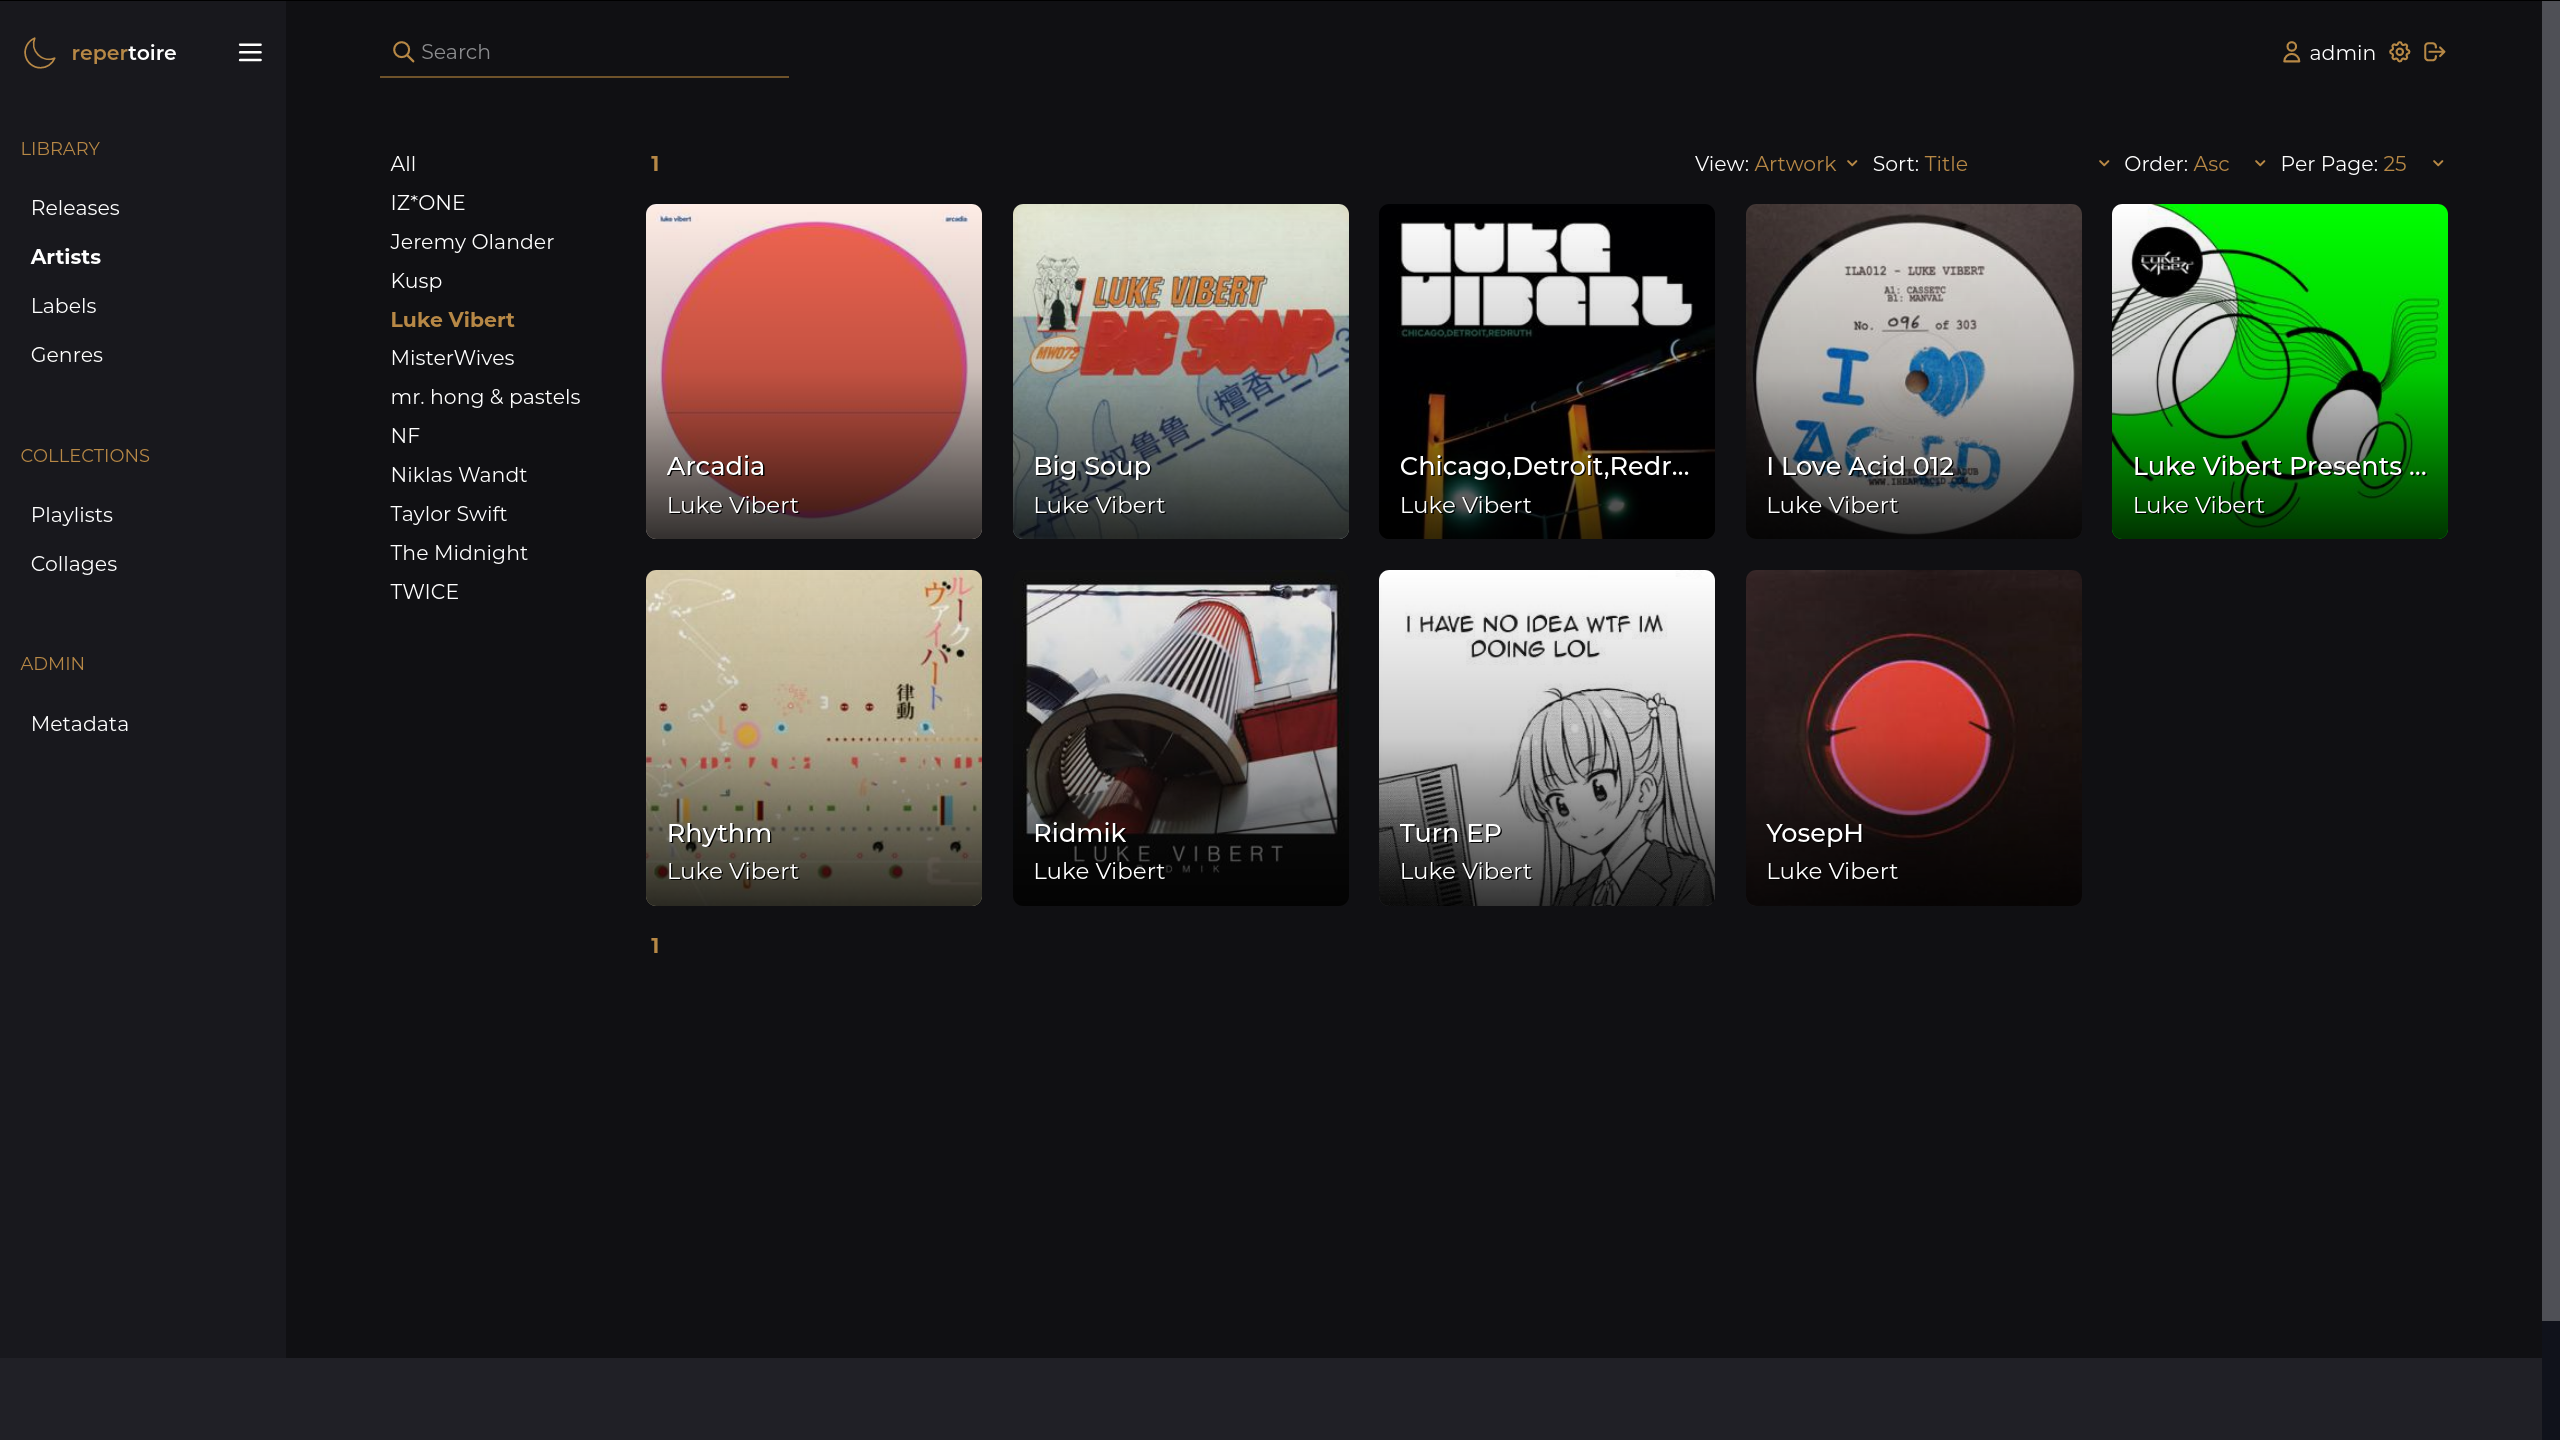
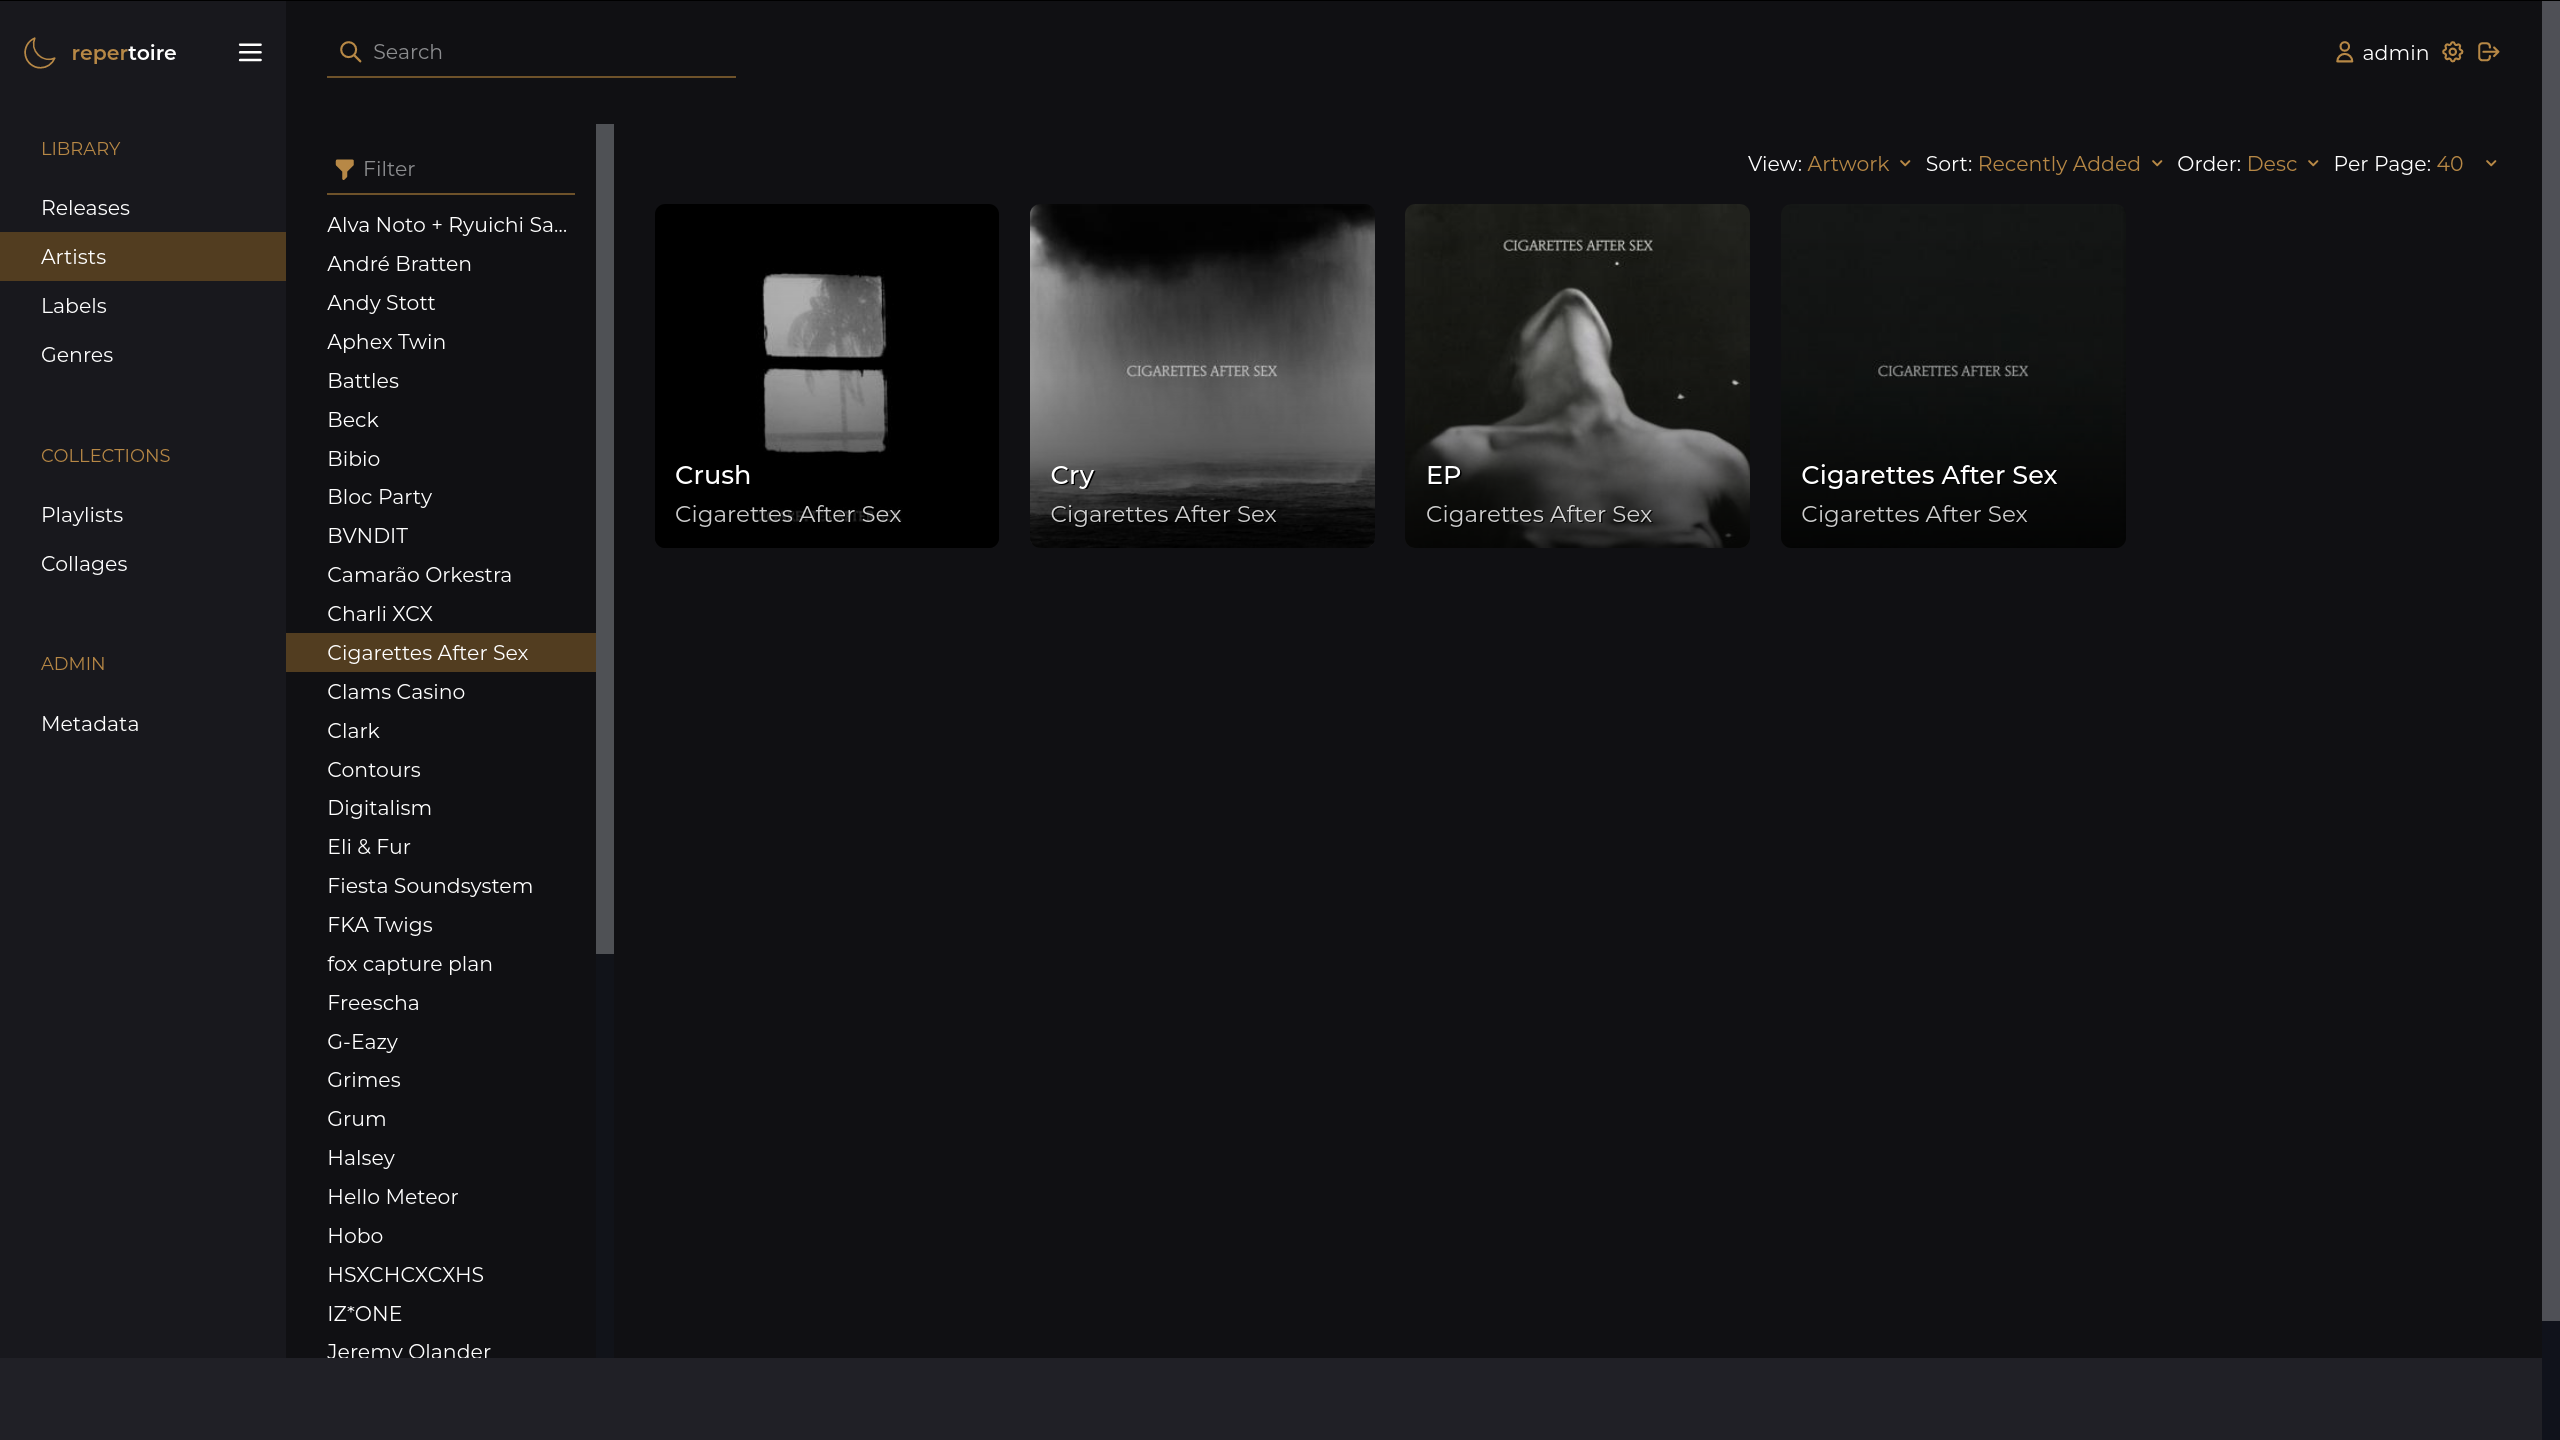
backend: handle invalid dates causing error, remove artist selector, add filter to artist chooser, more styling

diff --git a/frontend/src/components/Chooser/Artists.tsx b/frontend/src/components/Chooser/Artists.tsx
@@ -1,0 +1,51 @@
+import * as React from 'react';
+import Fuse from 'fuse.js';
+import { fuseOptions } from 'src/constants';
+
+import { Chooser } from './Chooser';
+import { RVOCType } from 'src/hooks';
+import { fetchArtists } from 'src/lib';
+import { useToasts } from 'react-toast-notifications';
+
+export const ArtistChooser: React.FC<{
+  viewOptions: RVOCType;
+  className?: string | undefined;
+}> = ({ viewOptions, className }) => {
+  const [filter, setFilter] = React.useState<string>('');
+  const { status, data } = fetchArtists();
+  const { addToast } = useToasts();
+
+  React.useEffect(() => {
+    if (status === 'loading') addToast('Loading artists...', { appearance: 'info' });
+  }, [status]);
+
+  const rawResults = React.useMemo(() => {
+    if (!data || status !== 'success') return null;
+
+    const results = data.artists.results;
+    results.sort((a, b) => a.name.localeCompare(b.name));
+    return results;
+  }, [data, status]);
+
+  const fuse = React.useMemo(() => {
+    if (!rawResults) return null;
+
+    return new Fuse(rawResults, { ...fuseOptions, keys: ['name'] });
+  }, [rawResults]);
+
+  const results = React.useMemo(() => {
+    if (!fuse || !rawResults) return [];
+
+    return filter ? fuse.search(filter).map(({ item }) => item) : rawResults;
+  }, [fuse, rawResults, filter]);
+
+  return (
+    <Chooser
+      className={className}
+      results={results}
+      filter={filter}
+      setFilter={setFilter}
+      setter={viewOptions.setArtistIds}
+    />
+  );
+};

diff --git a/frontend/src/components/Chooser/Chooser.tsx b/frontend/src/components/Chooser/Chooser.tsx
@@ -1,0 +1,44 @@
+import * as React from 'react';
+
+import { Element, ElementT } from './Element';
+
+import { Icon } from 'src/components/common/Icon';
+import clsx from 'clsx';
+
+const style = { maxHeight: 'calc(100vh - 4rem)' };
+
+export const Chooser: React.FC<{
+  className?: string | undefined;
+  results: ElementT[];
+  setter: (arg0: number[]) => void;
+  filter: string;
+  setFilter: (arg0: string) => void;
+}> = ({ className, results, setter, filter, setFilter }) => {
+  const [active, setActive] = React.useState<number | null>(null);
+
+  React.useEffect(() => setter(active ? [active] : []), [active]);
+
+  const updateFilter = React.useCallback((e) => setFilter(e.target.value), [setFilter]);
+
+  return (
+    <div
+      className={clsx(className, 'rpr--chooser sticky mt-4 pt-4 top-0 w-64 overflow-y-auto')}
+      style={style}
+    >
+      <div className="relative w-full pl-8 pr-4 mb-2">
+        <input
+          className="w-full pl-7"
+          placeholder="Filter"
+          value={filter}
+          onChange={updateFilter}
+        />
+        <div className="h-full absolute top-0 left-0 ml-8 px-1 flex items-center pointer-events-none">
+          <Icon className="w-5 text-bold" icon="filter-small" />
+        </div>
+      </div>
+      {results.map((elem: ElementT) => (
+        <Element key={elem.id} element={elem} active={active} setActive={setActive} />
+      ))}
+    </div>
+  );
+};

diff --git a/frontend/src/pages/Artists.tsx b/frontend/src/pages/Artists.tsx
@@ -1,6 +1,6 @@
 import * as React from 'react';
 
-import { ArtistChooser, ArtistSelector } from 'src/components/Picker';
+import { ArtistChooser } from 'src/components/Chooser';
 import { usePagination, useViewOptions } from 'src/hooks';
 
 import { PagedReleases } from 'src/components/Releases';
@@ -34,9 +34,8 @@ export const Artists: React.FC = () => {
   const bp = React.useMemo(() => (openBar ? 'lg' : 'md'), [openBar]);
 
   return (
-    <div className={`flex-1 w-full px-8 flex flex-col ${bp}:flex-row`}>
-      <ArtistChooser className={`flex-none mr-4 hidden ${bp}:block`} viewOptions={viewOptions} />
-      <ArtistSelector className={`flex-none ${bp}:hidden`} viewOptions={viewOptions} />
+    <div className={`flex-1 w-full pr-8 flex flex-col ${bp}:flex-row`}>
+      <ArtistChooser className={`flex-none mr-8 hidden ${bp}:block`} viewOptions={viewOptions} />
       {viewOptions.artistIds.length !== 0 && (
         <div className="py-4 flex-1 overflow-x-hidden">
           <ViewSettings

diff --git a/frontend/src/components/common/Icon.tsx b/frontend/src/components/common/Icon.tsx
@@ -6,6 +6,7 @@ type IconT =
   | 'logo'
   | 'hamburger'
   | 'right-arrow-small'
+  | 'filter-small'
   | 'search-medium'
   | 'chevron-down-small'
   | 'user-medium'
@@ -39,6 +40,15 @@ const icons: { [k in IconT]: React.ReactNode } = {
       <path
         fillRule="evenodd"
         d="M10.293 3.293a1 1 0 011.414 0l6 6a1 1 0 010 1.414l-6 6a1 1 0 01-1.414-1.414L14.586 11H3a1 1 0 110-2h11.586l-4.293-4.293a1 1 0 010-1.414z"
+        clipRule="evenodd"
+      />
+    </svg>
+  ),
+  'filter-small': (
+    <svg xmlns="http://www.w3.org/2000/svg" viewBox="0 0 20 20" fill="currentColor">
+      <path
+        fillRule="evenodd"
+        d="M3 3a1 1 0 011-1h12a1 1 0 011 1v3a1 1 0 01-.293.707L12 11.414V15a1 1 0 01-.293.707l-2 2A1 1 0 018 17v-5.586L3.293 6.707A1 1 0 013 6V3z"
         clipRule="evenodd"
       />
     </svg>

diff --git a/frontend/src/components/Header/Searchbar/index.tsx b/frontend/src/components/Header/Searchbar/index.tsx
@@ -11,7 +11,7 @@ export const Searchbar: React.FC<{
   return (
     <div className={clsx(className, 'flex-1 relative')}>
       <div className="flex items-center h-full">
-        <input className="w-full max-w-xs focus:max-w-none pl-8" placeholder="Search" />
+        <input className="w-full max-w-xs focus:max-w-none pl-9" placeholder="Search" />
         <div className="h-full absolute top-0 left-0 flex items-center pl-2 pr-1 pointer-events-none">
           <Icon icon="search-medium" className="w-5 text-bold" />
         </div>

diff --git a/frontend/src/components/ViewSettings/index.tsx b/frontend/src/components/ViewSettings/index.tsx
@@ -40,7 +40,7 @@ export const ViewSettings: React.FC<{
         <PerPage className="ml-2" pagination={pagination} />
       </div>
       <Popover click className={clsx('ml-auto cursor-pointer', responsiveHide)}>
-        <div className="flex items-center">
+        <div className="flex items-center px-2 py-1 rounded hover:bg-white hover:bg-opacity-10">
           <div>Options</div>
           <Icon className="text-bold w-4 ml-1" icon="chevron-down-small" />
         </div>

diff --git a/frontend/src/components/Chooser/Element.tsx b/frontend/src/components/Chooser/Element.tsx
@@ -18,8 +18,8 @@ export const Element: React.FC<{
   return (
     <div
       className={clsx(
-        'pl-2 pr-1 py-1 hover:bg-white hover:bg-opacity-5 cursor-pointer truncate',
-        isActive ? 'text-bold font-bold' : '',
+        'pl-8 pr-4 py-1 cursor-pointer truncate',
+        isActive ? 'bg-bg-embellish' : 'hover:bg-white hover:bg-opacity-5',
       )}
       onClick={onClick}
     >

diff --git a/frontend/src/components/Pagination/index.tsx b/frontend/src/components/Pagination/index.tsx
@@ -17,7 +17,7 @@ export const Pagination: React.FC<{
   const top = React.useMemo(() => Math.min(curPage + 3, numPages), [curPage, numPages]);
 
   // If there are no pages, don't render pagination.
-  if (numPages === 0) return null;
+  if (numPages <= 1) return null;
 
   return (
     <div className={clsx(className, 'flex')}>

diff --git a/frontend/src/components/ViewSettings/PerPage.tsx b/frontend/src/components/ViewSettings/PerPage.tsx
@@ -3,7 +3,7 @@ import * as React from 'react';
 import { PCType } from 'src/hooks';
 import { Select } from 'src/components/common/Select';
 
-const options = [10, 25, 50, 100, 200];
+const options = [40, 80, 120, 160, 200];
 
 export const PerPage: React.FC<{ pagination: PCType; className?: string }> = ({
   pagination,

diff --git a/frontend/src/constants.ts b/frontend/src/constants.ts
@@ -1,1 +1,7 @@
 export const API_URL = process.env.NODE_ENV === 'development' ? 'http://localhost:5000' : '';
+
+export const fuseOptions = {
+  threshold: 0.4,
+  isCaseSensitive: false,
+  useExtendedSearch: true,
+};

diff --git a/frontend/tailwind.config.js b/frontend/tailwind.config.js
@@ -34,6 +34,7 @@ module.exports = {
       },
       spacing: {
         7: '1.75rem',
+        9: '2.25rem',
         full: '100%',
         '1/24': '4.166666%',
       },

diff --git a/frontend/src/components/Chooser/index.ts b/frontend/src/components/Chooser/index.ts
@@ -1,0 +1,1 @@
+export * from './Artists';
